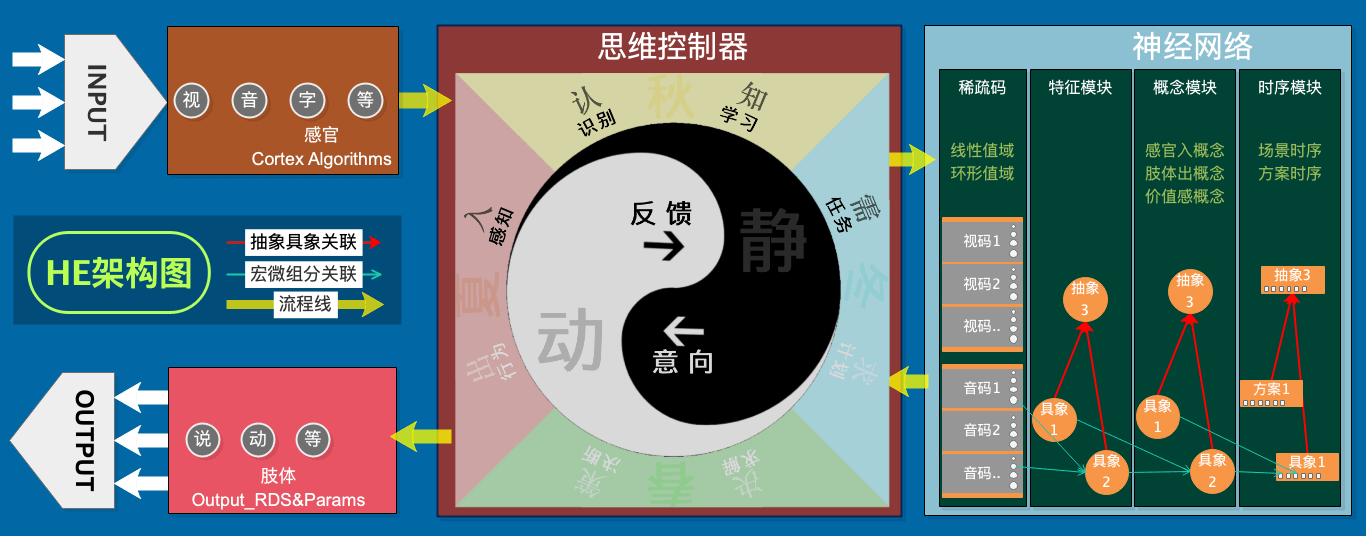
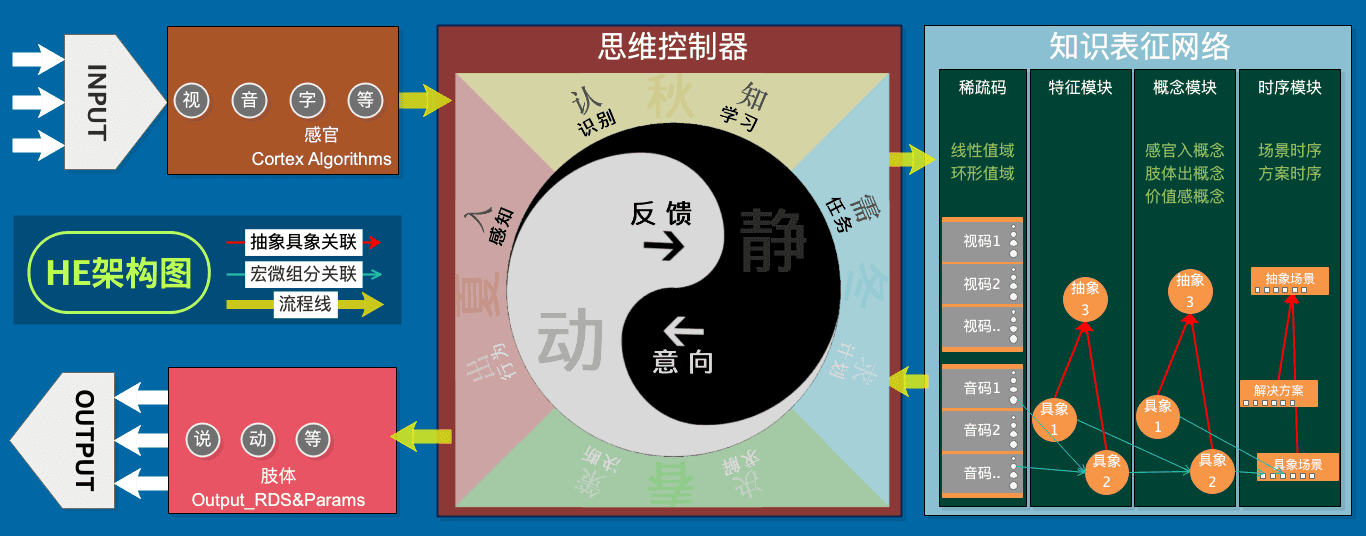
补充稀疏码到特征的细节流程。

diff --git a/手写笔记/Note34.md b/手写笔记/Note34.md
@@ -41,7 +41,6 @@
 **34021、需求**
 老同事的需求，想搞这样的数据库。在HE系统的数据库基础上分析如下（有些像加了解释性的CNN，也可以到网上自行找“CNN可解释性研究”，应该还有别的可行方案）。
 
-
 **34022、数据库**
 1. 稀疏码：一个字符串有一千字符，用这一千字符，生成1000个稀疏码（每个码必须是一个值类型）。
 2. 稀疏索引：把各个稀疏码做成一个数组索引（按从小到大排序）。
@@ -54,7 +53,6 @@
 8. 另1、粒度关联：在1/10，1/100，1/1000各粒度产生出的稀疏码间，要建立关联，比如：一千字符，产出1/10粒度稀疏10个，它的每块分别与1/100粒度产生的100个中的10个码建立粒度关联splitPorts。
 9. 另2、特征错位：另外为了准确度，也可以做错位层（即以0.5个粒度进行）（这条也是为了性能，因为粗粒度时，筛选的越准，它后面性能就越好）。
 10. 另3、再后面的概念、时序、价值，这些在该需求不涉及，砍掉。
-
 
 **34023、工作步骤**
 1. 输入长字符串。
@@ -70,6 +68,31 @@
 
 10. 竞争：根据以上匹配度、强度、索引到目标次数，综合竞争（找出各粒度都比较匹配的特征结果）。
 11. 结果：最后得到结果仍是数组，并且是有相似度，且在一级级向细粒度上解析，可以完全还原它的内容，即：具备可解释性）。
+
+**小结：以上大概讲了从稀疏码到特征的表征和识别方式。**
+
+| 34024 | 用图表示稀疏码到特征的流程 |
+| --- | --- |
+| 示图 | ![](assets/734_稀疏码到特征.png) |
+| 步骤1 | 如图，我们从粗粒度开始索引，它因为粒度粗（所以refPorts结果少），再加上扩30%的索引（ref结果会多些，但因为粒度粗，在可接受范围），做为一级结果。 |
+| 步骤2 | 然后分两条路径：一条是根据取到的粗结果特征，向细粒度找splitPorts。另一条从细粒度稀疏码，向refPorts找细粒度特征。 |
+| 步骤3 | 两条路径的结果取交集（或结果计数，计数多的更准确），然后根据匹配度竞争，再保留可接受数量的二级结果。 |
+| 步骤5 | 再分两条路径：二级结果向splitPorts取，三级粒度稀疏码向refPorts取。 |
+| 步骤6 | 再两条路径的结果取交集（或结果计数，计数多的更准确），然后根据匹配度竞争，再保留可接受数量的三级结果。 |
+| 结果 | 像如图中，一级取到4条(ABCD)，二级2条(B9,D9)，三级1条(D99)，当然图只是个示意，真要跑的是九格全跑，不可能只跑第9格。 |
+
+**小结：34024中，通过示图详细说明了从稀疏码到特征的识别过程。**
+
+| 34025 | 非视觉中心错位，导致识别不准确的问题。 |
+| --- | --- |
+| 问题说明 | 识别时，原感官数据有错位问题，比如视觉往往不在视觉中心，导致错位，导致识别不准。 |
+| 思路分析 | 当识别有价值影响（值得关注）的信号（如危险）时（此时已经有了任务），它正视目标然后能实现更准确识别，并解决任务。 |
+| 正面解答 | 那这个：”正视目标”本身就是解决任务的第一个步骤而已，即：我们是为了解决任务，才正视目标，识别目标，精准解决任务。 |
+| 反面解答 | 而不是为了能解决识别的非视觉中心错位问题，而专门去实现正视目标，或者平移图像实现识别。 |
+| 总结 | 即：此问题，融入到整个思维系统中去解决了，而不是通过感官算法解决（即我老以前说的，脖子动是行为，而不是主动视觉的功能）。 |
+
+**小结：34025中，描述了被动视觉是怎样实现正视的，解答了非视觉中心导致的识别不准确问题。**
+**总结：当前he4o的v2版本不做多码特征，此笔记中多码特征部分，和splitPorts粒度关联并未工程化，但整个做法与以往HE的做法是同源的。**
 
 ***
 
